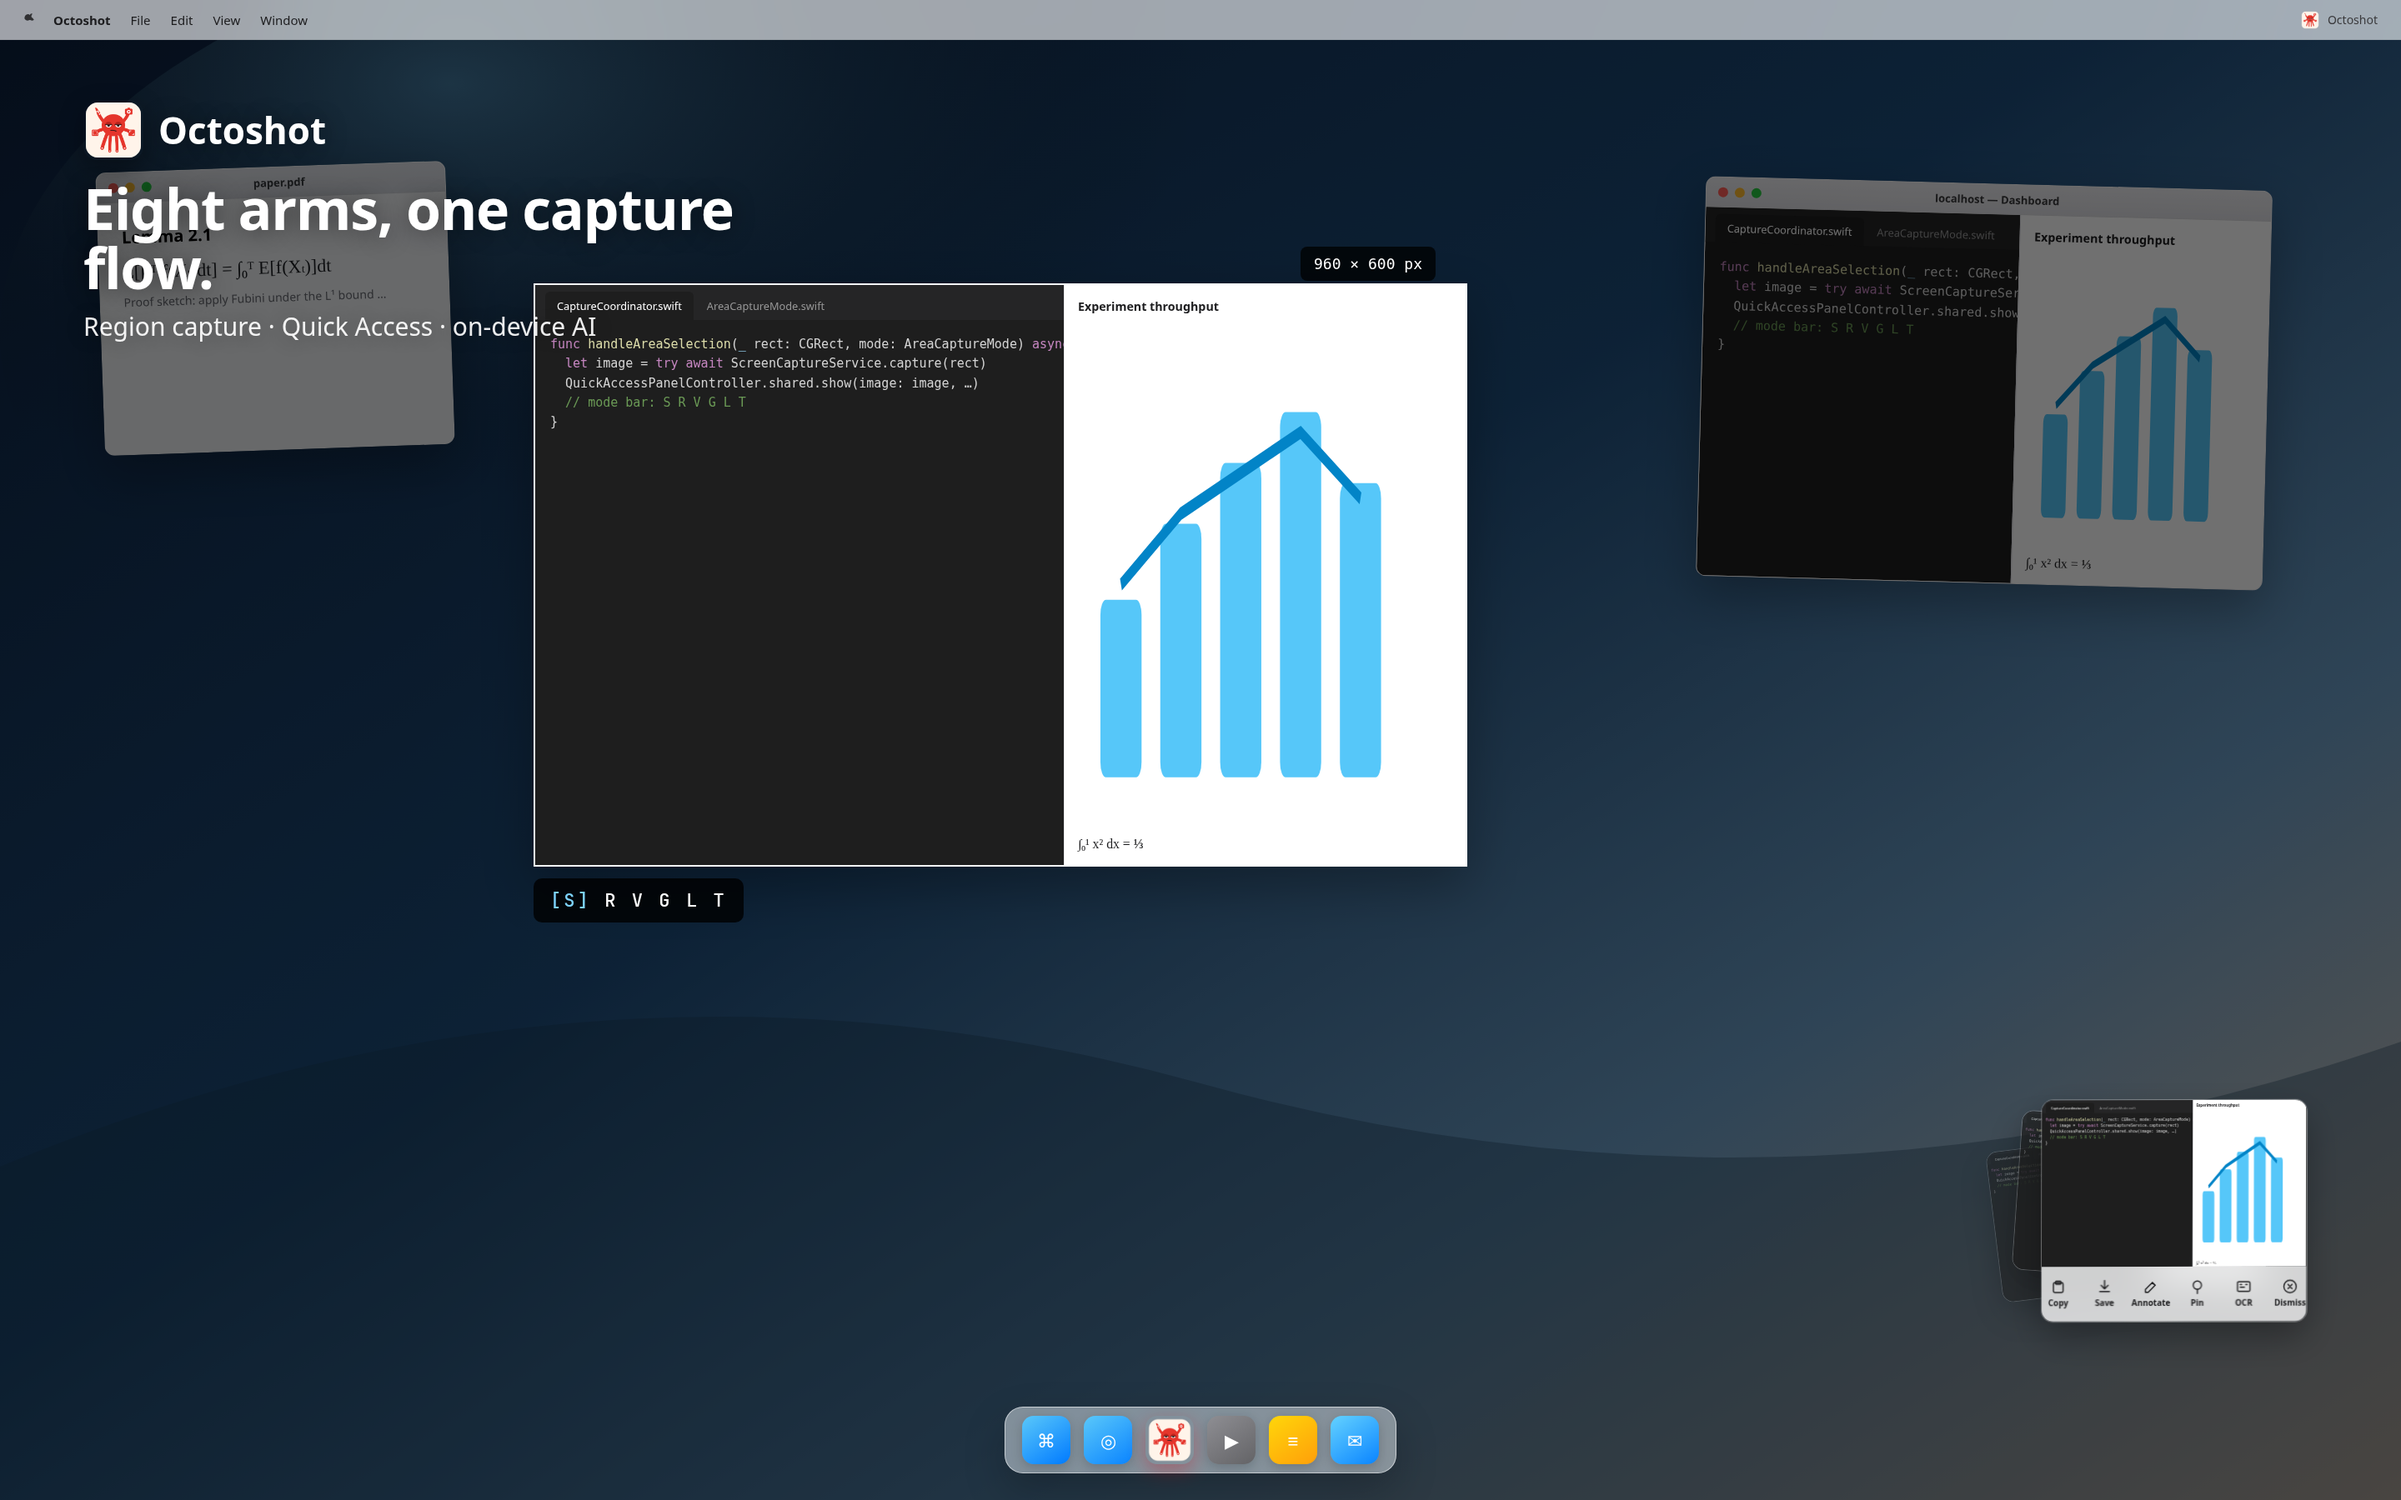
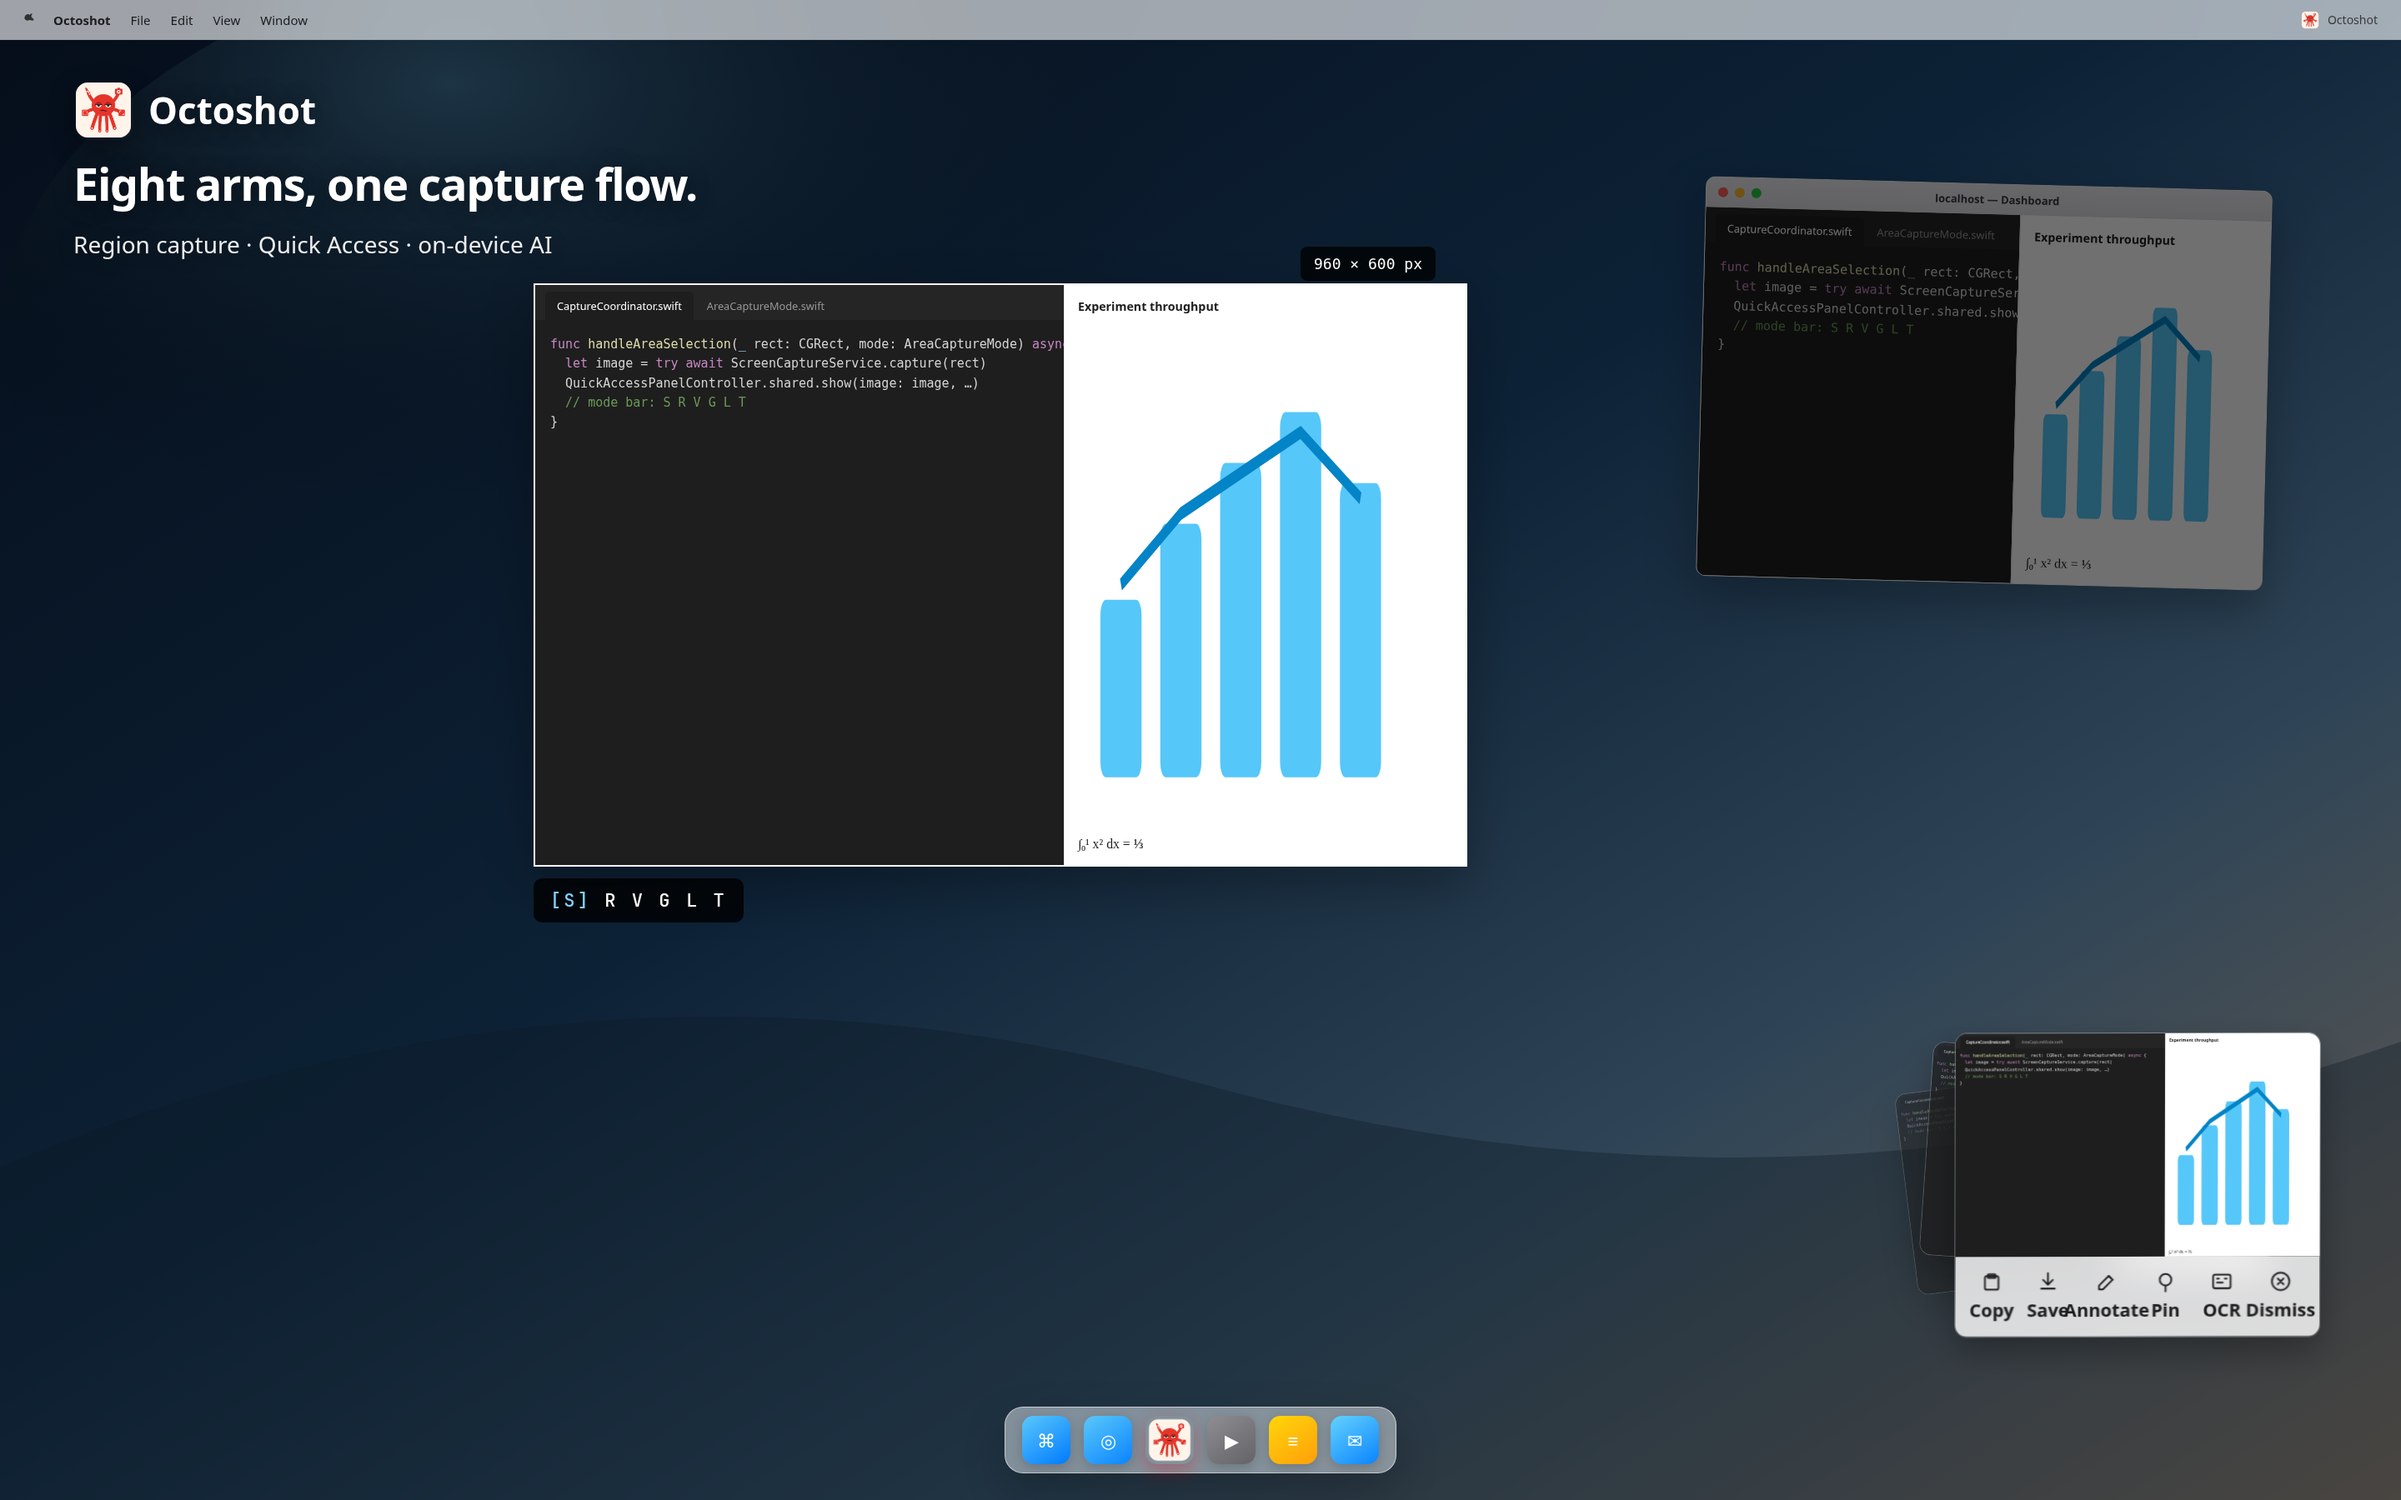
fix(website): hero text clearance and larger Quick Access labels

Changed region(s): [[0.0312, 0.0311, 0.3125, 0.3111], [0.7812, 0.6844, 0.9688, 0.9022]]

diff --git a/website/scripts/visuals/styles.css b/website/scripts/visuals/styles.css
@@ -365,12 +365,13 @@ body {
 
 .hero-tag {
   position: absolute;
-  left: 100px;
-  top: 120px;
+  left: 88px;
+  top: 88px;
   z-index: 30;
   color: #fff;
   text-shadow: 0 2px 28px rgba(0, 0, 0, 0.45);
-  max-width: 900px;
+  max-width: 980px;
+  padding: 8px 0;
 }
 
 .brand-row {
@@ -395,41 +396,57 @@ body {
   font-size: 68px;
   font-weight: 700;
   letter-spacing: -0.02em;
-  line-height: 1.05;
+  line-height: 1.12;
+  margin-bottom: 20px;
+}
+
+.lang-en .hero-tag h2 {
+  font-size: 54px;
+  letter-spacing: -0.025em;
+  white-space: nowrap;
+  margin-bottom: 24px;
+}
+
+.lang-zh .hero-tag h2 {
+  font-size: 60px;
+  line-height: 1.18;
+  margin-bottom: 22px;
 }
 
 .hero-tag p {
-  font-size: 30px;
+  font-size: 28px;
   opacity: 0.92;
-  margin-top: 14px;
+  margin-top: 0;
+  line-height: 1.4;
+  max-width: 720px;
 }
 
 .qa-hero-corner {
   position: absolute;
-  right: 100px;
-  bottom: 140px;
+  right: 72px;
+  bottom: 120px;
   z-index: 35;
   perspective: 1200px;
 }
 
 .qa-scene-center {
   position: absolute;
-  right: 280px;
-  bottom: 200px;
+  right: 200px;
+  bottom: 160px;
   z-index: 30;
   perspective: 1400px;
-  transform: scale(1.15);
+  transform: scale(1.28);
 }
 
 .qa-stack-wrap {
   position: relative;
-  width: 380px;
-  height: 340px;
+  width: 520px;
+  height: 440px;
 }
 
 .qa-card {
   position: absolute;
-  width: 320px;
+  width: 440px;
   border-radius: 14px;
   background: rgba(30, 30, 34, 0.15);
   overflow: hidden;
@@ -439,16 +456,16 @@ body {
 }
 
 .qa-thumb {
-  height: 200px;
+  height: 268px;
   overflow: hidden;
   background: #1e1e1e;
 }
 
 .qa-thumb .capture-content {
-  transform: scale(0.42);
+  transform: scale(0.48);
   transform-origin: top left;
-  width: 760px;
-  height: 480px;
+  width: 920px;
+  height: 560px;
 }
 
 .qa-card.back2 {
@@ -468,7 +485,7 @@ body {
 }
 
 .qa-card.front {
-  left: 48px;
+  left: 56px;
   top: 0;
   transform: rotate3d(-0.3, 1, 0, 7deg);
   z-index: 3;
@@ -478,9 +495,9 @@ body {
   display: flex;
   flex-wrap: nowrap;
   justify-content: center;
-  gap: 4px;
-  padding: 10px 8px 12px;
-  background: rgba(255, 255, 255, 0.78);
+  gap: 6px;
+  padding: 14px 10px 16px;
+  background: rgba(255, 255, 255, 0.82);
   backdrop-filter: blur(22px);
 }
 
@@ -489,22 +506,29 @@ body {
   flex-direction: column;
   align-items: center;
   justify-content: flex-start;
-  gap: 4px;
-  min-width: 52px;
-  max-width: 58px;
-  padding: 4px 2px;
+  gap: 6px;
+  min-width: 62px;
+  max-width: 68px;
+  padding: 2px 4px 4px;
   border: none;
   background: transparent;
   color: #1d1d1f;
-  font-size: 10px;
+  font-size: 22px;
   font-weight: 600;
-  line-height: 1.15;
+  line-height: 1.2;
   font-family: inherit;
+}
+
+.qa-btn svg {
+  width: 28px;
+  height: 28px;
+  flex-shrink: 0;
 }
 
 .qa-btn span {
   text-align: center;
   white-space: nowrap;
+  font-size: 22px;
 }
 
 .desktop-dim {
